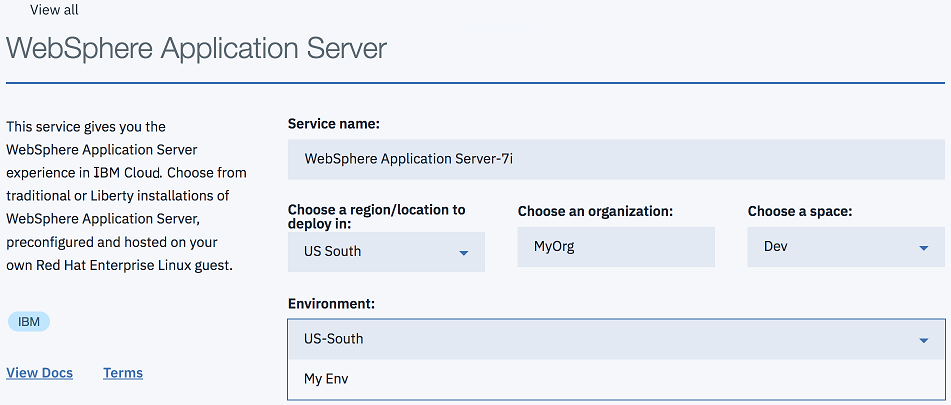
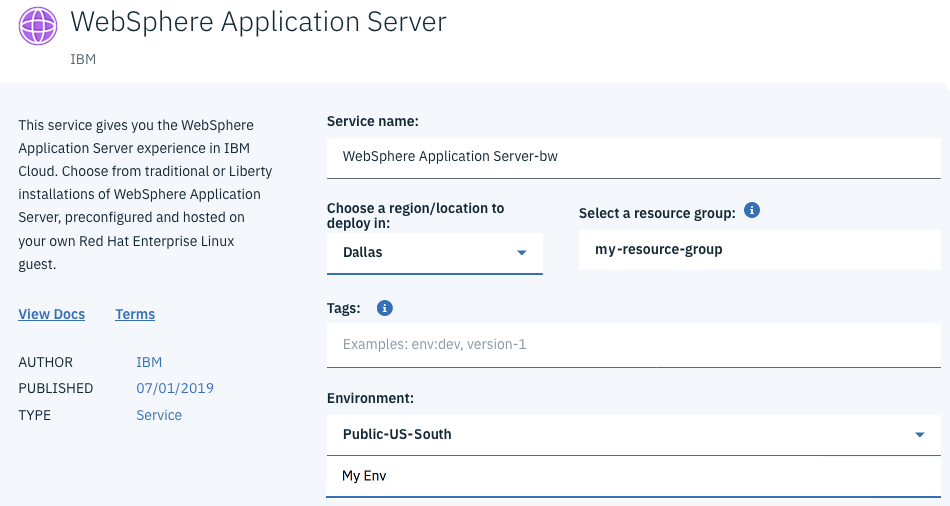
Updates for resource groups

diff --git a/index.md b/index.md
@@ -2,9 +2,9 @@
 
 copyright:
   years: 2017, 2019
-lastupdated: "2019-02-14"
+lastupdated: "2019-07-10"
 
-keywords: overview, websphere, liberty, version, cell, collective, vm, virtual machine, t-shirt, block, price, reserve contract
+keywords: overview, websphere, liberty, version, cell, collective, vm, virtual machine, t-shirt, block, price, reserve contract, resource group
 
 subcollection: wasaas
 
@@ -34,19 +34,19 @@ The WebSphere Application Server in {{site.data.keyword.Bluemix_notm}} Network D
 
 The WebSphere Application Server in {{site.data.keyword.Bluemix_notm}} Network Deployment Plan also includes the use of a Liberty collective. The Liberty collective is an administrative domain for a group of Liberty profiles (servers) and consists of two or more virtual machines. The first virtual machine contains the collective controller Liberty server, which is a control point for the Liberty collective. In addition to the Liberty collective, this virtual machine also contains the IBM HTTP Server, which allows access to your applications from a web browser. The remaining virtual machines are the collective hosts where the collective members reside (Liberty profile servers). The Liberty Admin Center feature is also enabled on the Liberty controller server.
 
-The following figure shows the architecture of the WebSphere Application Server in {{site.data.keyword.Bluemix_notm}} Network Deployment Cell and Liberty collective environments.
+The following figure shows the architecture of the WebSphere Application Server in {{site.data.keyword.Bluemix_notm}} Network Deployment cell and Liberty collective environments.
 
 Figure 1. Network deployment cell and Liberty collective architecture
 
 ![Figure 1. Architecture of Network deployment cell and Liberty collective](images/CellCollectiveDiagram.gif)
 
-**Note**: In _Figure 1_ above, the pattern that depicts collocation of the Deployment Manager or the collective controller with the IBM HTTP Server is intended for development and testing purposes. WebSphere Application Server in {{site.data.keyword.Bluemix_notm}} also gives you the freedom to reconfigure the preinstalled software to meet your production application and operational needs; just as you would on-premises. Further, for the strictest production requirements, contact your IBM Sales representative who can speak to our single-tenant IBM WebSphere Application Server in {{site.data.keyword.Bluemix_notm}} offering, which offers isolated networking and compute resources.
+**Note**: In _Figure 1_, the pattern that depicts collocation of the Deployment Manager or the collective controller with the IBM HTTP Server is intended for development and testing purposes. WebSphere Application Server in {{site.data.keyword.Bluemix_notm}} also gives you the freedom to reconfigure the preinstalled software to meet your production application and operational needs; just as you would on-premises. Further, for the strictest production requirements, contact your IBM Sales representative who can speak to our single-tenant IBM WebSphere Application Server in {{site.data.keyword.Bluemix_notm}} offering, which offers isolated networking and compute resources.
 
 
 ## Operational environment
 {: #operational_environment}
 
-IBM WebSphere Application Server in {{site.data.keyword.Bluemix_notm}} is a service that returns guests (virtual machines) in a shared environment for consumers to deploy applications. A VPN protects the public service from generic port scans and other unsolicited network-based attacks. However, it is important to note that the service VPN you use to access your service instance might be shared between multiple {{site.data.keyword.Bluemix_notm}} organizations and users. The virtual machines provide compute, memory, and I/O resources, which come from a shared pool of IaaS resources.
+IBM WebSphere Application Server in {{site.data.keyword.Bluemix_notm}} is a service that returns guests (virtual machines) in a shared environment for consumers to deploy applications. A VPN protects the public service from generic port scans and other unsolicited network-based attacks. However, it is important to note that the service VPN you use to access your service instance might be shared between multiple {{site.data.keyword.Bluemix_notm}} resource groups and users. The virtual machines provide compute, memory, and I/O resources, which come from a shared pool of IaaS resources.
 
 As specific compute, memory, and I/O resources are run by virtual machines in a shared environment, service configurations might vary. Configurations for each specific service instance can be viewed through the IBM WebSphere Application Server in {{site.data.keyword.Bluemix_notm}} service dashboards and portals.
 

diff --git a/networkEnvironment.md b/networkEnvironment.md
@@ -2,9 +2,9 @@
 
 copyright:
   years: 2017, 2019
-lastupdated: "2019-06-26"
+lastupdated: "2019-07-10"
 
-keywords: public ip, vpn, private ip, dns, port, custom vm
+keywords: public ip, vpn, private ip, dns, port, custom vm, resource group
 
 subcollection: wasaas
 
@@ -30,20 +30,20 @@ Figure 1. Client view of Multi-tenant networking with Public IP
 
 After you provision a WebSphere Application Server in {{site.data.keyword.Bluemix_notm}} service instance from the service dashboard in the {{site.data.keyword.Bluemix_notm}} UI, you can establish an OpenVPN connection. To create the connection, expand the drop-down menu and click **Download VPN Configuration** to download your VPN configuration. The VPN configuration contains an `.ovpn` file and certificates that are used to authenticate with the OpenVPN server. Once the OpenVPN connection is established, you can then access your VM through SSH. You can also access your Liberty Admin Center, traditional WebSphere Admin Console, and applications.
 
-The VPN configuration is scoped to your organization and region. It is valid for one year from the time created. Multiple OpenVPN client connections can be established simultaneously by using the same VPN configuration.
+The VPN configuration is scoped to your organization or resource group and region. It is valid for one year from the time created. Multiple OpenVPN client connections can be established simultaneously by using the same VPN configuration.
 
-**Note:** Your VPN configuration is only valid if your organization contains **active** subscriptions. When the last subscription for an organization is deleted, all the VPN configurations for the organization are suspended. Unexpired VPN configurations are automatically reactivated when a new subscription becomes active.
+**Note:** Your VPN configuration is only valid if your organization or resource group contains **active** subscriptions. When the last subscription for an organization or resource group is deleted, all the VPN configurations for the organization or resource group are suspended. Unexpired VPN configurations are automatically reactivated when a new subscription becomes active.
 
 ## Advanced VPN configuration management
 {: #advancedVPN}
 
-In most cases, you need only a single VPN configuration that you can download by using the **Download VPN Configuration** button. However, the advanced VPN management page, which is accessed by clicking **Advanced VPN Management** on the service dashboard, lets you create and manage multiple VPN configurations. Having multiple configurations might be helpful to transition smoothly to a new VPN configuration when the old one is about to expire. You can also request multiple VPN configurations to manage access to your VMs with different individuals or teams in your organization.  
+In most cases, you need only a single VPN configuration that you can download by using the **Download VPN Configuration** button. However, the advanced VPN management page, which is accessed by clicking **Advanced VPN Management** on the service dashboard, lets you create and manage multiple VPN configurations. Having multiple configurations might be helpful to transition smoothly to a new VPN configuration when the old one is about to expire. You can also request multiple VPN configurations to manage access to your VMs with different individuals or teams.  
 
-**Note:** You are allowed a **maximum** of 10 active VPN configurations for your organization at any time.
+**Note:** You are allowed a **maximum** of 10 active VPN configurations for your organization or resource group at any time.
 
 If your VPN configurations are compromised or expired, you can revoke VPN configuration by using the advanced VPN management page. Additionally, from an audit perspective, you can view a history of all VPN management activity and download active VPN configurations that were created previously from the advanced VPN management page.
 
-All the features available from the service dashboard in the {{site.data.keyword.Bluemix_notm}} UI can also be scripted by using our REST APIs. For more information, see the WebSphere Application Server in {{site.data.keyword.Bluemix_notm}} [REST API Documentation](https://wasaas-broker.us-south.websphereappsvr.cloud.ibm.com/wasaas-broker/api#/){: new_window}.
+All the features available from the service dashboard in the {{site.data.keyword.Bluemix_notm}} UI can also be scripted by using our REST APIs. For more information, see the WebSphere Application Server in {{site.data.keyword.Bluemix_notm}} [REST API Documentation](https://wasaas-broker.us-south.websphereappsvr.cloud.ibm.com/wasaas-broker/api/v3){: new_window}.
 
 
 ## Public internet access

diff --git a/systemAccess.md b/systemAccess.md
@@ -2,7 +2,7 @@
 
 copyright:
   years: 2017, 2019
-lastupdated: "2019-06-26"
+lastupdated: "2019-07-10"
 
 keywords: rest api, access, dashboard, openvpn, vpn, ssh, openssh, command path, admin, manage server, console, firewall port, web server, plugin, plug-in, ssl
 
@@ -29,7 +29,7 @@ Instances in WebSphere Application Server in {{site.data.keyword.Bluemix_notm}} 
 * From the {{site.data.keyword.Bluemix_notm}} catalog and service dashboard.
 * From the creation of an application or script that uses RESTful APIs.
 
-Through use of OpenAPI compliant REST APIs, clients have access to the same function as provided through the portal and dashboard. For more information about supported REST APIs and resources, see the WebSphere Application Server in {{site.data.keyword.Bluemix_notm}} [REST API Documentation](https://wasaas-broker.us-south.websphereappsvr.cloud.ibm.com/wasaas-broker/api#/){: new_window}. For sample code that demonstrates usage of the REST APIs, download the Git hosted WebSphere Application Server in {{site.data.keyword.Bluemix_notm}} [REST API Samples](https://github.com/IBM-Cloud/WebSphere-in-IBM-Cloud/tree/master/WebSphere-In-IBM-Cloud-API-Examples){: new_window}.
+Through use of OpenAPI compliant REST APIs, clients have access to the same function as provided through the portal and dashboard. For more information about supported REST APIs and resources, see the WebSphere Application Server in {{site.data.keyword.Bluemix_notm}} [REST API Documentation](https://wasaas-broker.us-south.websphereappsvr.cloud.ibm.com/wasaas-broker/api/v3){: new_window}. For sample code that demonstrates usage of the REST APIs, download the Git hosted WebSphere Application Server in {{site.data.keyword.Bluemix_notm}} [REST API Samples](https://github.com/IBM-Cloud/WebSphere-in-IBM-Cloud/tree/master/WebSphere-In-IBM-Cloud-API-Examples){: new_window}.
 
 **Note:** After you create a service instance, depending on the T-shirt size that is created, your service might not be immediately ready for use. It is recommended that you query the **Status** field of the JSON returned to determine the current state of the service instance.
 
@@ -47,8 +47,7 @@ Through use of OpenAPI compliant REST APIs, clients have access to the same func
 ## Service dashboard
 {: #service_dashboard}
 
-After you create your service instance, you are taken to the service dashboard. You can always get back to the service dashboard by clicking the service icon from your organization dashboard.
-From the service dashboard you can access:
+After you create your service instance, you are taken to the service dashboard. You can always get back to the service dashboard by clicking the service icon from your {{site.data.keyword.Bluemix_notm}} resource list. From the service dashboard you can access:
 
 * A link to this documentation
 * A link to download the required OpenVPN configuration files

diff --git a/getting-started.md b/getting-started.md
@@ -2,9 +2,9 @@
 
 copyright:
   years: 2018, 2019
-lastupdated: "2019-02-18"
+lastupdated: "2019-07-10"
 
-keywords: migrate websphere, create service, profile, architecture, vm, virtual machine, provision
+keywords: migrate websphere, create service, profile, architecture, vm, virtual machine, provision, resource group
 
 subcollection: wasaas
 
@@ -50,7 +50,7 @@ The following steps walk you through creating a new environment in {{site.data.k
 
   * **Single Tenant Environment:** Under **Choose a region/location to deploy in**, verify that the selected region is the region where your Single Tenant Environment is deployed. Under **Environment**, select your Single Tenant Environment. By default, the public environment might be shown.
 
-    If your Single Tenant Environment is not listed, check that you're in the correct region and that your organization has access to your Single Tenant Environment.
+    If your Single Tenant Environment is not listed, check that you're in the correct region and that your resource group has access to your Single Tenant Environment.
     {: tip}
 1. Select the pricing plan for the edition of {{site.data.keyword.appserver_short}} that you want to deploy.
 1. Click **Create**.
@@ -79,7 +79,7 @@ Click the tab for the component, such as the server, deployment manager, or appl
 
 Review the details in the service configuration summary, including the estimated time that it takes to provision.
 
-**Reserve contract:** Make sure that the **Billing** option is set to _Reserve Contract_. If you don't see the option, verify that [your org](/docs/account?topic=account-orgsspacesusers){:new_window} is exactly the same, including case and whitespace, as the org name for your contract. If you provision the service without selecting reserve contract billing, pay-as-you-go billing is used.
+**Reserve contract:** Make sure that the **Billing** option is set to _Reserve Contract_. If you don't see the option, verify that [your resource group](/docs/resources?topic=resources-rgs){:new_window} is exactly the same, including case and whitespace, as the resource group name for your contract. Also verify that you are in the correct account for the specified resource group name, because resource group names are not required to be unique. If you provision the service without selecting reserve contract billing, pay-as-you-go billing is used.
 
 Click **Provision** to set up your {{site.data.keyword.appserver_short}} environment.
 

diff --git a/gettingStartedSTE.md b/gettingStartedSTE.md
@@ -2,9 +2,9 @@
 
 copyright:
   years: 2017, 2019
-lastupdated: "2019-02-15"
+lastupdated: "2019-07-10"
 
-keywords: single tenant, websphere, sales, order
+keywords: single tenant, websphere, sales, order, resource group
 
 subcollection: wasaas
 
@@ -37,9 +37,14 @@ Figure 1. Architecture of the WebSphere Application Server in {{site.data.keywor
 ![Figure 1. Architecture of Single Tenant Environment](images/WASaaS.png)
 
 
-## Organization Management
+## Resource Group Management
 {: #organization_management}
 
-The WebSphere Application Server in {{site.data.keyword.Bluemix_notm}} Single Tenant Environment is configured according to your order. If you provided one or more {{site.data.keyword.Bluemix_notm}} organization names as part of the order, you can start accessing your environment now. If you did not provide an organization name or if you want to change this setting, open a [support ticket](/docs/services/ApplicationServeronCloud?topic=wasaas-reporting_issues#reporting_issues) for **Application Services** from the {{site.data.keyword.Bluemix_notm}} console of your region. You can find your org name in the {{site.data.keyword.Bluemix_notm}} console by going to **Manage > Account > Cloud Foundry orgs**.
+The WebSphere Application Server in {{site.data.keyword.Bluemix_notm}} Single Tenant Environment is configured according to your order. If you provided one or more {{site.data.keyword.Bluemix_notm}} resource group names and IDs as part of the order, you can start accessing your environment now. If you did not provide a resource group name and ID or if you want to change this setting, open a [support ticket](/docs/services/ApplicationServeronCloud?topic=wasaas-reporting_issues#reporting_issues) for **Application Services** from the {{site.data.keyword.Bluemix_notm}} console of your region. You can find your resource group names and IDs by running the following command from the [{{site.data.keyword.Bluemix_notm}} command-line interface](/docs/cli?topic=cloud-cli-install-ibmcloud-cli){: new_window}:
+
+```
+ibmcloud resource groups
+```
+{: .codeblock}  
 
 **Note:** To access your Single Tenant Environment, see [Single Tenant Environment access](/docs/services/ApplicationServeronCloud?topic=wasaas-singleTenantEnvironment#singleTenantEnvironment).

diff --git a/latestUpdates.md b/latestUpdates.md
@@ -2,7 +2,7 @@
 
 copyright:
   years: 2017, 2019
-lastupdated: "2019-07-02"
+lastupdated: "2019-07-15"
 
 keywords: update, fix pack, fixpack, version, whats new, new in release
 
@@ -18,6 +18,13 @@ subcollection: wasaas
 {: #latest_updates}
 
 A list of the latest updates to the service.
+
+## July 15, 2019: Changed organization to resource group
+
+New subscriptions will belong to resource groups instead of orgs and spaces. Existing subscriptions that belong to [orgs and spaces](/docs/account?topic=account-orgsspacesusers){: new_window} will continue to work.
+* For information about resource group management, see [Single Tenant Environments](/docs/services/ApplicationServeronCloud?topic=wasaas-getting_startedSTE).
+* For information about accessing your VM, see [Network environment](/docs/services/ApplicationServeronCloud?topic=wasaas-networkEnvironment) and [Single Tenant Environment access](/docs/services/ApplicationServeronCloud?topic=wasaas-singleTenantEnvironment).
+* For general information about resource groups, see [Creating and managing resource groups](/docs/resources?topic=resources-rgs){: new_window} in the {{site.data.keyword.Bluemix_notm}} documentation.
 
 ## July 8, 2019: Updated WebSphere Application Server in {{site.data.keyword.Bluemix_notm}}
 * The 9.0.5.0 fix pack of traditional WebSphere Application Server is now available when you provision a new service instance. In addition to 9.0.5.0, other fix packs of traditional WebSphere Application Server, such as 9.0.0.11, 8.5.5.15 and 8.5.5.14, are available for provisioning.

diff --git a/singleTenantAccess.md b/singleTenantAccess.md
@@ -2,7 +2,7 @@
 
 copyright:
   years: 2017, 2019
-lastupdated: "2019-02-15"
+lastupdated: "2019-07-10"
 
 keywords: single tenant, access, catalog, create service, block, pricing, vpn, openvpn
 
@@ -41,7 +41,7 @@ The following steps discuss accessing your Single Tenant Environment, along with
 
     ![Single Tenant Environment name](images/environmentSTE.png)
 
-    **Avoid trouble:** The public environment might be shown as the default. Displaying the correct environment name assumes that you are logged in to the correct region, and a member of an organization that is allowed to access your Single Tenant Environment.
+    **Avoid trouble:** The public environment might be shown as the default. Displaying the correct environment name assumes that you are logged in to the correct region, and have appropriate access to a resource group that is allowed to access your Single Tenant Environment.
 
     **Note:** If you select one of the public environments, you might incur an hourly charge. Therefore, if you do not see your Single Tenant Environment name, then open a Support Ticket as described in [Getting help](/docs/services/ApplicationServeronCloud?topic=wasaas-reporting_issues#reporting_issues){: new_window} page.
 
